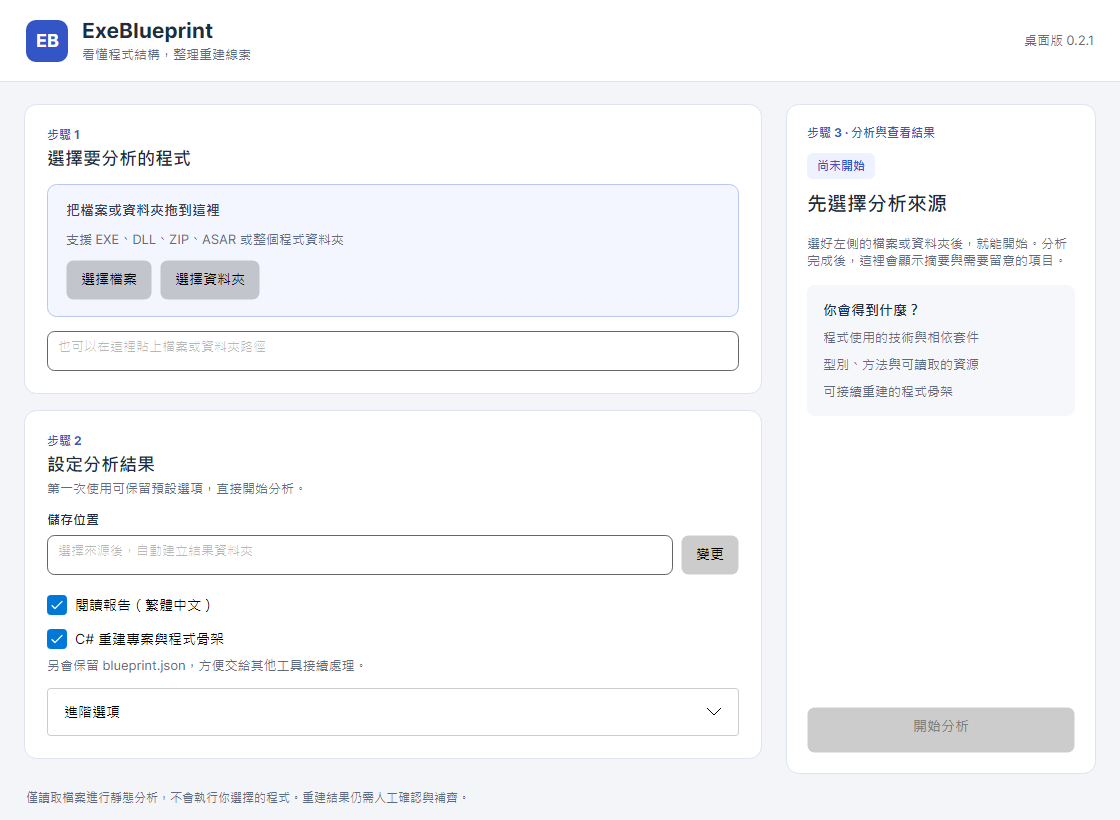
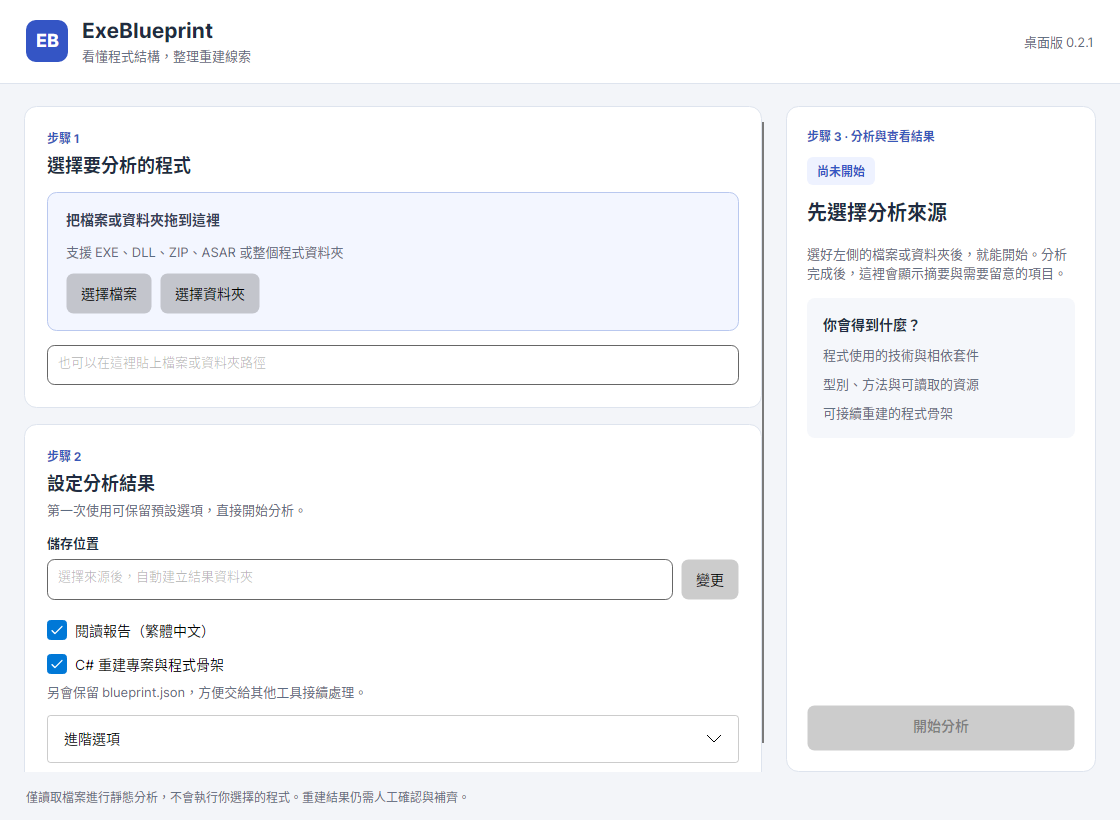
fix(desktop): 關閉視窗前等待分析清理
分析途中關閉視窗時，原本只發出取消通知，程式就可能先退出，背景工作未必來得及完成清理。現在先停留在取消狀態，等分析工作及其清理結束後再自動關閉。

新增測試刻意延後背景清理，確認取消已送達、視窗仍開啟、重複關閉不會提前退出，以及清理完成後才收到關閉事件。操作說明與中文字型修正後的畫面也已更新。

已同步主分支的中文字型修正，22 項桌面測試、Release 建置、格式與 diff 檢查通過。

diff --git a/tests/ExeBlueprint.Desktop.Tests/MainWindowTests.cs b/tests/ExeBlueprint.Desktop.Tests/MainWindowTests.cs
@@ -202,6 +202,59 @@ public sealed class MainWindowTests(DesktopTestSession desktopSession) : IDispos
     }
 
     [Fact]
+    public async Task ClosingDuringAnalysisWaitsForCancellationCleanup()
+    {
+        await desktopSession.Session.Dispatch(async () =>
+        {
+            var entered = new TaskCompletionSource(TaskCreationOptions.RunContinuationsAsynchronously);
+            var cleanupStarted = new TaskCompletionSource(TaskCreationOptions.RunContinuationsAsynchronously);
+            var releaseCleanup = new TaskCompletionSource(TaskCreationOptions.RunContinuationsAsynchronously);
+            var cleanupFinished = false;
+            var windowClosed = false;
+            var window = CreateWindow(async (_, _, token) =>
+            {
+                entered.SetResult();
+                try { await Task.Delay(Timeout.Infinite, token); }
+                finally
+                {
+                    cleanupStarted.SetResult();
+                    await releaseCleanup.Task;
+                    cleanupFinished = true;
+                }
+
+                throw new InvalidOperationException("Unreachable");
+            });
+            window.Closed += (_, _) => windowClosed = true;
+            try
+            {
+                Input(window).Text = Path.Combine(_temporaryDirectory, "example.exe");
+                Click(window, "AnalyzeButton");
+                await entered.Task.WaitAsync(TimeSpan.FromSeconds(15));
+                window.Close();
+                await cleanupStarted.Task.WaitAsync(TimeSpan.FromSeconds(15));
+                Assert.True(window.IsVisible);
+                Assert.False(windowClosed);
+                Assert.False(Control<Button>(window, "CancelButton").IsEnabled);
+                Assert.Contains("清理完成後", Control<TextBlock>(window, "StatusDetailText").Text);
+                window.Close();
+                Assert.False(windowClosed);
+                Capture(window, "closing");
+                releaseCleanup.SetResult();
+                await WaitUntil(() => windowClosed);
+                Assert.True(cleanupFinished);
+                Assert.False(window.IsVisible);
+                return true;
+            }
+            finally
+            {
+                releaseCleanup.TrySetResult();
+                window.Close();
+                await WaitUntil(() => windowClosed);
+            }
+        }, TestContextToken);
+    }
+
+    [Fact]
     public async Task RealAnalysisWritesReportAndJsonThenRejectsExplicitOverwrite()
     {
         Directory.CreateDirectory(_temporaryDirectory);

diff --git a/src/ExeBlueprint.Desktop/MainWindow.axaml.cs b/src/ExeBlueprint.Desktop/MainWindow.axaml.cs
@@ -21,6 +21,7 @@ public sealed partial class MainWindow : Window
     private bool _settingSuggestedOutput;
     private bool _outputWasEdited;
     private bool _inputDropZoneActive;
+    private bool _closeAfterAnalysis;
 
     public MainWindow() : this(RecentInputStore.CreateDefault())
     {
@@ -348,10 +349,16 @@ public sealed partial class MainWindow : Window
             cancellation.Dispose();
             _analysisCancellation = null;
             SetBusy(false);
+            if (_closeAfterAnalysis)
+            {
+                Close();
+            }
         }
     }
 
-    private void OnCancel(object? sender, RoutedEventArgs e)
+    private void OnCancel(object? sender, RoutedEventArgs e) => RequestCancellation();
+
+    private void RequestCancellation()
     {
         CancelButton.IsEnabled = false;
         SetStatus("停止中", "正在取消分析", "正在停止，請稍候…");
@@ -569,7 +576,15 @@ public sealed partial class MainWindow : Window
 
     protected override void OnClosing(WindowClosingEventArgs e)
     {
-        _analysisCancellation?.Cancel();
         base.OnClosing(e);
+        if (e.Cancel || _analysisCancellation is null)
+        {
+            return;
+        }
+
+        e.Cancel = true;
+        _closeAfterAnalysis = true;
+        RequestCancellation();
+        StatusDetailText.Text = "正在停止分析，清理完成後會自動關閉視窗。";
     }
 }

diff --git a/docs/desktop-guide.md b/docs/desktop-guide.md
@@ -30,6 +30,8 @@
 
 分析與最初的資料夾掃描在背景執行，畫面仍可操作取消。取消會在目前檔案或目錄的讀取告一段落後生效。取消或失敗後會顯示原因，原本的設定仍會保留，方便修改後重試；已產生的部分檔案可能仍留在儲存位置。
 
+分析途中關閉視窗時，程式會先取消分析並等待背景工作清理，再自動關閉。等待期間會顯示狀態，不需要重複按關閉。
+
 ## 介面驗證
 
 桌面測試以 Avalonia Headless 搭配 Skia 載入實際 XAML，涵蓋預設與自訂位置、實際分析產出、覆寫保護、取消、舊進度回報、結果切換、JSON-only、鍵盤操作、150% 縮放，以及 1120 × 820／820 × 640 視窗。
